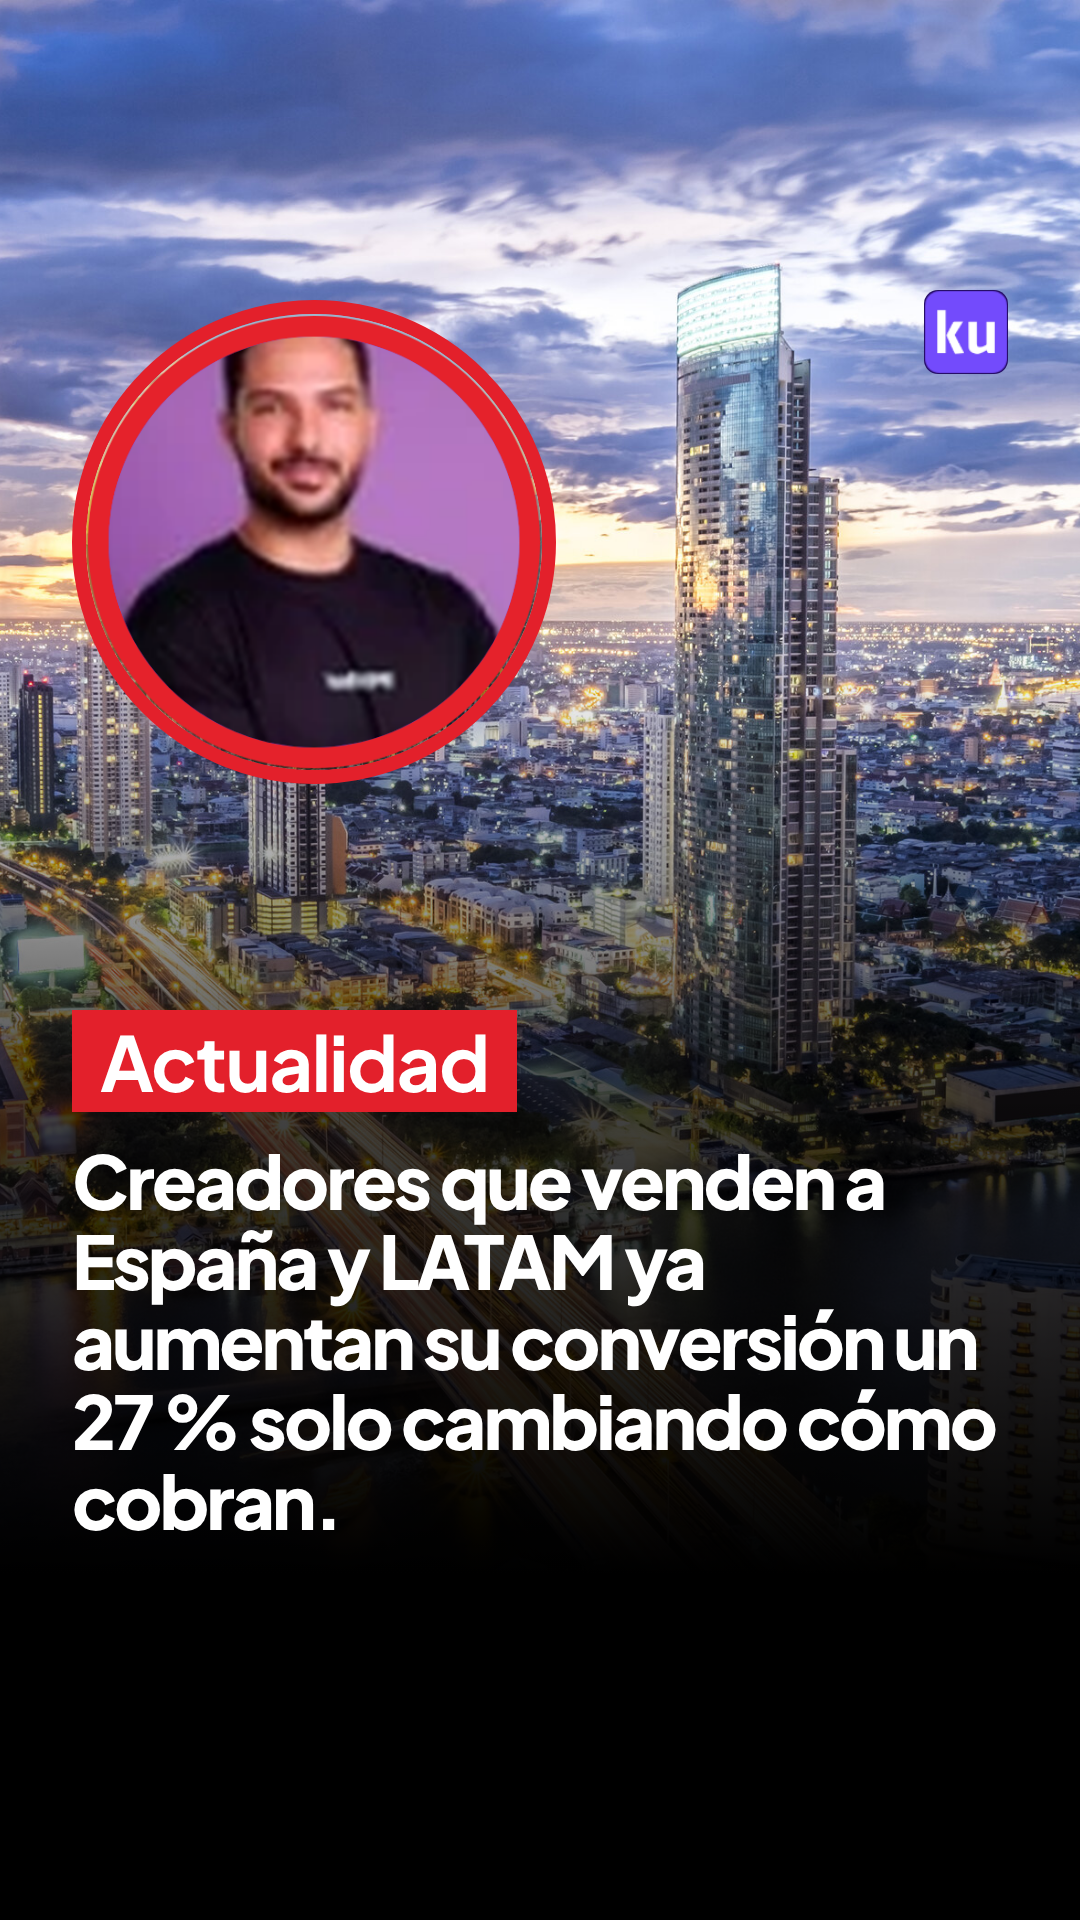
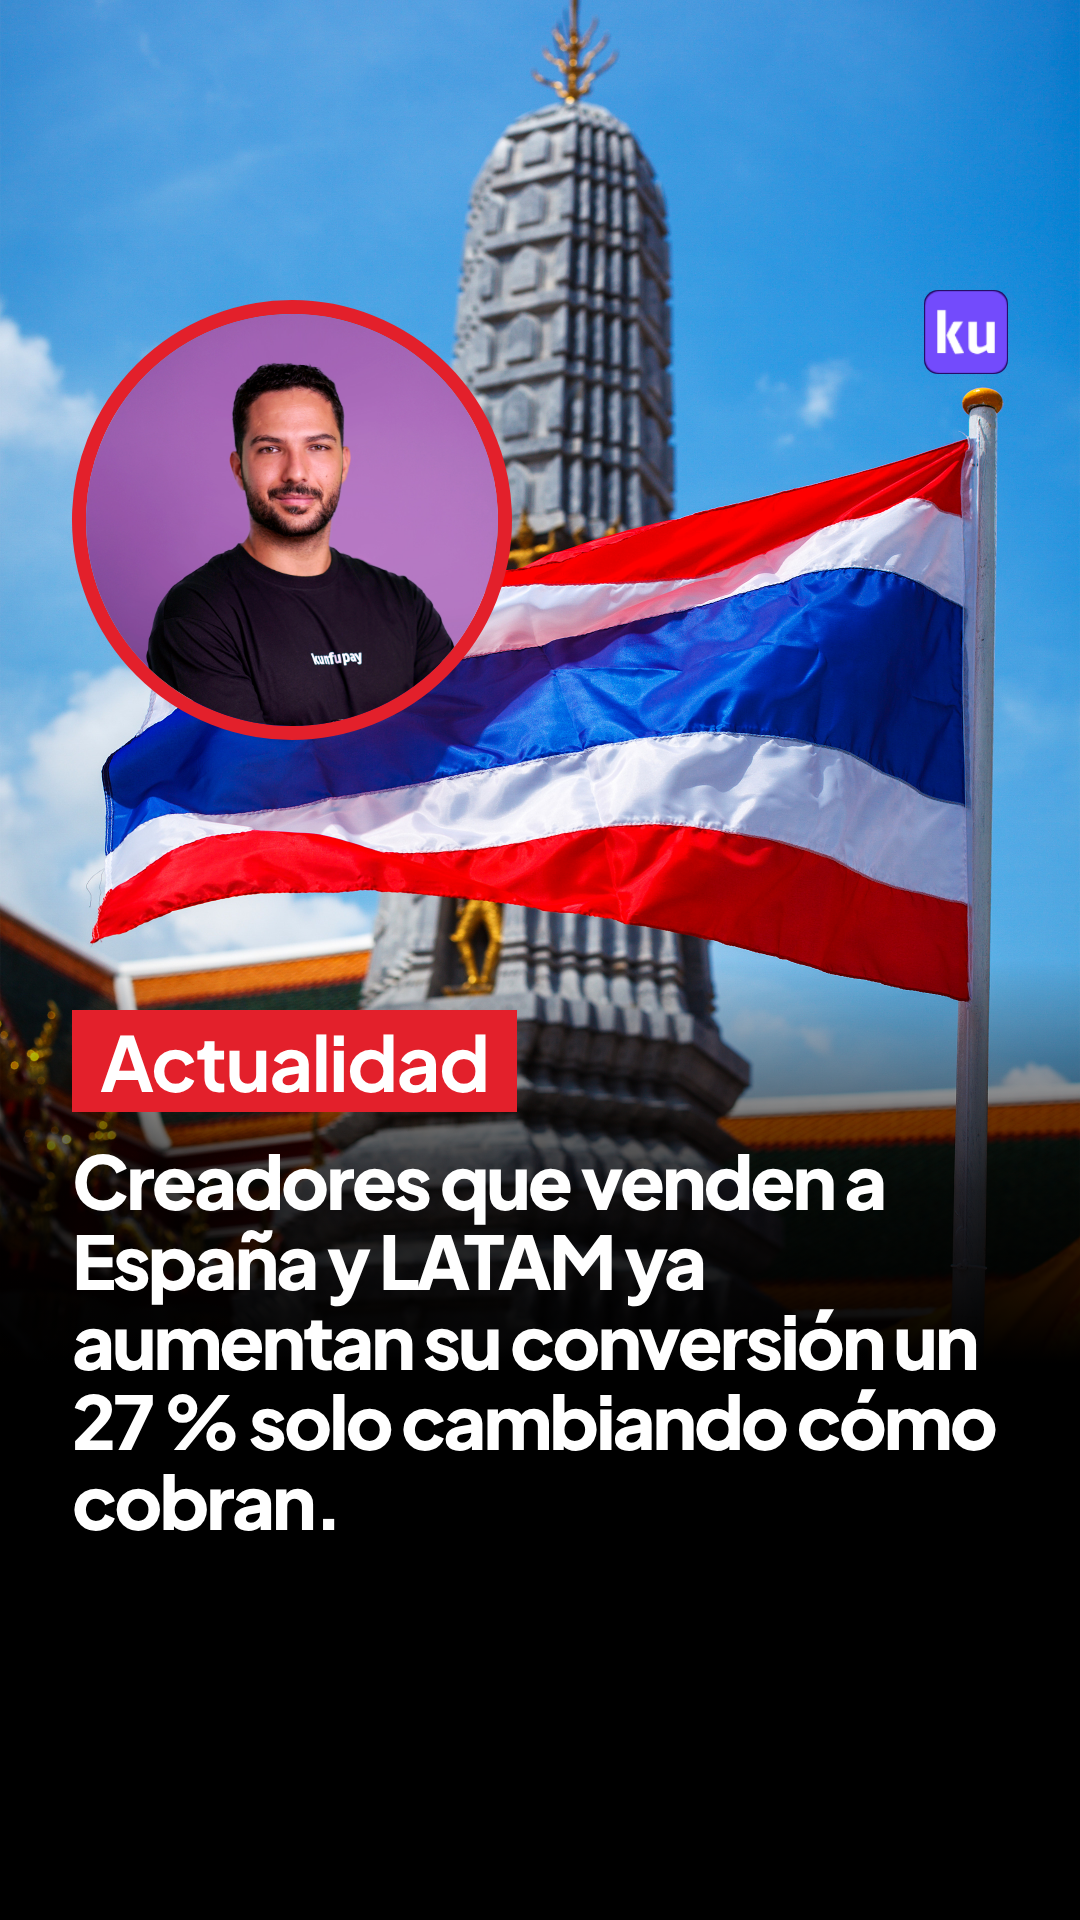
Hub Tailandia: E5 con la foto de estudio de Rubén y fondo de Bangkok con bandera
La foto de Rubén que pasó Brayan (4000x6000) sustituye a la de 484 px, que se
veía pixelada. El fondo pasa a una foto real del Wat Pho con la bandera de
Tailandia (stock con licencia, 2867x4300), con la saturación un 18 % más alta.

Claude-Session: https://claude.ai/code/session_01CrG1buW4YQaBwXCV6dNp28

diff --git a/creatividades/metodos-de-pago/hubs/_fuente/tailandia/estaticos_tailandia.py b/creatividades/metodos-de-pago/hubs/_fuente/tailandia/estaticos_tailandia.py
@@ -8,8 +8,13 @@ Uso:  python3 estaticos_tailandia.py <dir_html>
 - E3 parte del E3 de Bali, que ya enseña las páginas de pago reales de México (recortada a SPEI
   y Mercado Pago, sin OXXO) y de España. Solo se sustituye la primera línea («desde Bali» pasa a
   «desde Tailandia»): las capturas no se tocan ni se tapan.
-- E5 usa una foto de Bangkok de stock con licencia (Freepik/Magnific, «cityscape view and building
-  at twilight in Bangkok, Thailand»).
+- E5 usa dos fotos en alta resolución:
+  - assets/tailandia_bandera.jpg: foto real de stock con licencia (Freepik/Magnific, «Thailand flag
+    and Buddhist temple», Wat Pho, Bangkok; 2867×4300). Se baja a 2160 px de ancho con la saturación
+    un 18 % más alta.
+  - assets/ruben_hd.jpg: recorte cuadrado de 1200 px de la foto de estudio de Rubén (4000×6000) que
+    Brayan pasó por Slack el 12-11-2026.
+  bangkok.jpg ya no se usa.
 """
 import os
 import sys
@@ -150,16 +155,18 @@ E5_TITULAR = "Creadores que venden a España y LATAM ya aumentan su conversión 
 
 def e5(h):
     st = h == 1920
-    foto = PROPIO + 'bangkok.jpg'
-    css = f"""body{{background:#000 url('{foto}') center 30%/cover no-repeat}}
-.sh{{position:absolute;inset:0;background:linear-gradient(180deg,rgba(0,0,0,0) 34%,rgba(0,0,0,.74) 58%,#000 {'82' if st else '96'}%)}}
-.circ{{position:absolute;left:72px;top:{300 if st else 50}px;width:{484 if st else 380}px;height:{484 if st else 380}px;border-radius:50%;overflow:hidden;border:14px solid #e3202b;background:{LILA}}}
+    foto = PROPIO + 'tailandia_bandera.jpg'
+    # La foto se sube para que la bandera quede entera por encima del titular; lo que sobra abajo es negro.
+    tam, pos = ('1080px auto', 'center -240px') if st else ('1080px auto', 'center -400px')
+    css = f"""body{{background:#000 url('{foto}') {pos}/{tam} no-repeat}}
+.sh{{position:absolute;inset:0;background:linear-gradient(180deg,rgba(0,0,0,0) {'50' if st else '52'}%,rgba(0,0,0,.74) {'62' if st else '68'}%,#000 {'71' if st else '88'}%)}}
+.circ{{position:absolute;left:72px;top:{300 if st else 50}px;width:{440 if st else 380}px;height:{440 if st else 380}px;border-radius:50%;overflow:hidden;border:14px solid #e3202b;background:{LILA}}}
 .circ img{{width:100%;height:100%;object-fit:cover}}
 .kua{{position:absolute;right:72px;top:{290 if st else 50}px;width:84px;height:84px;border-radius:14px}}
 .txt{{position:absolute;left:72px;right:72px;bottom:{380 if st else 70}px;color:#fff}}
 .tag{{display:inline-block;background:#e3202b;font-weight:700;font-size:{76 if st else 62}px;padding:0 28px;line-height:1.35;letter-spacing:-0.02em}}
 h1{{font-size:{74 if st else 62}px;line-height:1.08;font-weight:800;margin-top:28px;letter-spacing:-0.04em}}"""
-    body = f"""<div class="sh"></div><div class="circ"><img src="{COMUN}ruben.png"></div>
+    body = f"""<div class="sh"></div><div class="circ"><img src="{PROPIO}ruben_hd.jpg"></div>
 <img class="kua" src="{COMUN}ku.png"><div class="txt"><span class="tag">Actualidad</span>
 <h1>{E5_TITULAR}</h1></div>"""
     return pagina(h, body, css, ku=False)
